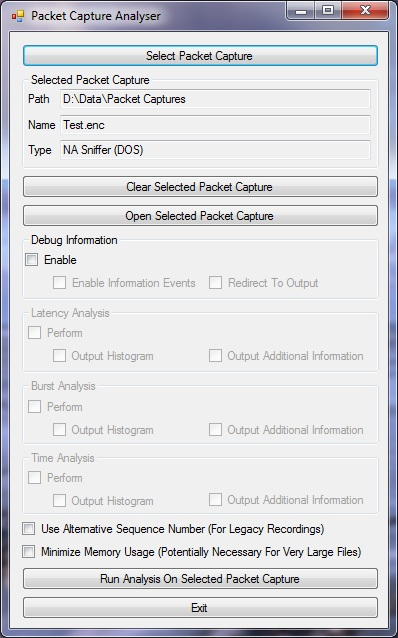
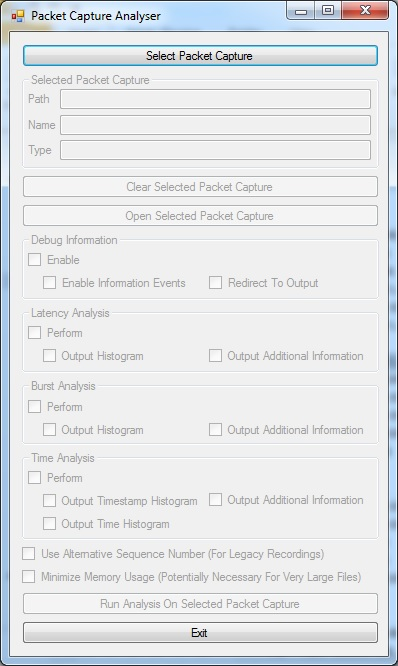
Enhancements to time analysis Minor improvements to latency analysis and burst analysis Revised screenshot

diff --git a/PacketCaptureAnalyser/MainWindowForm.Designer.cs b/PacketCaptureAnalyser/MainWindowForm.Designer.cs
@@ -153,9 +153,14 @@ namespace PacketCaptureAnalyzer
         private System.Windows.Forms.CheckBox thePerformTimeAnalysisCheckBox;
 
         /// <summary>
-        /// The check box that indicates whether to output histograms from the time analysis for the selected packet capture
+        /// The check box that indicates whether to output timestamp histograms from the time analysis for the selected packet capture
         /// </summary>
-        private System.Windows.Forms.CheckBox theOutputTimeAnalysisHistogramCheckBox;
+        private System.Windows.Forms.CheckBox theOutputTimeAnalysisTimestampHistogramCheckBox;
+
+        /// <summary>
+        /// The check box that indicates whether to output time histograms from the time analysis for the selected packet capture
+        /// </summary>
+        private System.Windows.Forms.CheckBox theOutputTimeAnalysisTimeHistogramCheckBox;
 
         /// <summary>
         /// The check box that indicates whether to output additional information from the time analysis for the selected packet capture
@@ -257,7 +262,8 @@ namespace PacketCaptureAnalyzer
             this.theOutputLatencyAnalysisHistogramCheckBox = new System.Windows.Forms.CheckBox();
             this.theDebugInformationGroupBox = new System.Windows.Forms.GroupBox();
             this.theTimeAnalysisGroupBox = new System.Windows.Forms.GroupBox();
-            this.theOutputTimeAnalysisHistogramCheckBox = new System.Windows.Forms.CheckBox();
+            this.theOutputTimeAnalysisTimeHistogramCheckBox = new System.Windows.Forms.CheckBox();
+            this.theOutputTimeAnalysisTimestampHistogramCheckBox = new System.Windows.Forms.CheckBox();
             this.theSelectedPacketCaptureGroupBox = new System.Windows.Forms.GroupBox();
             this.theBurstAnalysisGroupBox = new System.Windows.Forms.GroupBox();
             this.theOutputBurstAnalysisHistogramCheckBox = new System.Windows.Forms.CheckBox();
@@ -273,7 +279,7 @@ namespace PacketCaptureAnalyzer
             // theRunAnalysisOnSelectedPackageCaptureButton
             // 
             this.theRunAnalysisOnSelectedPackageCaptureButton.Enabled = false;
-            this.theRunAnalysisOnSelectedPackageCaptureButton.Location = new System.Drawing.Point(12, 535);
+            this.theRunAnalysisOnSelectedPackageCaptureButton.Location = new System.Drawing.Point(12, 560);
             this.theRunAnalysisOnSelectedPackageCaptureButton.Name = "theRunAnalysisOnSelectedPackageCaptureButton";
             this.theRunAnalysisOnSelectedPackageCaptureButton.Size = new System.Drawing.Size(357, 23);
             this.theRunAnalysisOnSelectedPackageCaptureButton.TabIndex = 10;
@@ -283,7 +289,7 @@ namespace PacketCaptureAnalyzer
             // 
             // theExitButton
             // 
-            this.theExitButton.Location = new System.Drawing.Point(12, 564);
+            this.theExitButton.Location = new System.Drawing.Point(12, 589);
             this.theExitButton.Name = "theExitButton";
             this.theExitButton.Size = new System.Drawing.Size(357, 23);
             this.theExitButton.TabIndex = 11;
@@ -435,7 +441,7 @@ namespace PacketCaptureAnalyzer
             // 
             this.theMinimizeMemoryUsageCheckBox.AutoSize = true;
             this.theMinimizeMemoryUsageCheckBox.Enabled = false;
-            this.theMinimizeMemoryUsageCheckBox.Location = new System.Drawing.Point(12, 512);
+            this.theMinimizeMemoryUsageCheckBox.Location = new System.Drawing.Point(12, 537);
             this.theMinimizeMemoryUsageCheckBox.Name = "theMinimizeMemoryUsageCheckBox";
             this.theMinimizeMemoryUsageCheckBox.Size = new System.Drawing.Size(346, 17);
             this.theMinimizeMemoryUsageCheckBox.TabIndex = 9;
@@ -457,7 +463,7 @@ namespace PacketCaptureAnalyzer
             // 
             this.theEnableInformationEventsInDebugInformationCheckBox.AutoSize = true;
             this.theEnableInformationEventsInDebugInformationCheckBox.Enabled = false;
-            this.theEnableInformationEventsInDebugInformationCheckBox.Location = new System.Drawing.Point(31, 42);
+            this.theEnableInformationEventsInDebugInformationCheckBox.Location = new System.Drawing.Point(21, 42);
             this.theEnableInformationEventsInDebugInformationCheckBox.Name = "theEnableInformationEventsInDebugInformationCheckBox";
             this.theEnableInformationEventsInDebugInformationCheckBox.Size = new System.Drawing.Size(150, 17);
             this.theEnableInformationEventsInDebugInformationCheckBox.TabIndex = 1;
@@ -480,7 +486,7 @@ namespace PacketCaptureAnalyzer
             // 
             this.theUseAlternativeSequenceNumberCheckBox.AutoSize = true;
             this.theUseAlternativeSequenceNumberCheckBox.Enabled = false;
-            this.theUseAlternativeSequenceNumberCheckBox.Location = new System.Drawing.Point(12, 489);
+            this.theUseAlternativeSequenceNumberCheckBox.Location = new System.Drawing.Point(12, 514);
             this.theUseAlternativeSequenceNumberCheckBox.Name = "theUseAlternativeSequenceNumberCheckBox";
             this.theUseAlternativeSequenceNumberCheckBox.Size = new System.Drawing.Size(309, 17);
             this.theUseAlternativeSequenceNumberCheckBox.TabIndex = 8;
@@ -504,7 +510,7 @@ namespace PacketCaptureAnalyzer
             // 
             this.theOutputLatencyAnalysisHistogramCheckBox.AutoSize = true;
             this.theOutputLatencyAnalysisHistogramCheckBox.Enabled = false;
-            this.theOutputLatencyAnalysisHistogramCheckBox.Location = new System.Drawing.Point(31, 42);
+            this.theOutputLatencyAnalysisHistogramCheckBox.Location = new System.Drawing.Point(21, 42);
             this.theOutputLatencyAnalysisHistogramCheckBox.Name = "theOutputLatencyAnalysisHistogramCheckBox";
             this.theOutputLatencyAnalysisHistogramCheckBox.Size = new System.Drawing.Size(108, 17);
             this.theOutputLatencyAnalysisHistogramCheckBox.TabIndex = 1;
@@ -526,27 +532,39 @@ namespace PacketCaptureAnalyzer
             // 
             // theTimeAnalysisGroupBox
             // 
-            this.theTimeAnalysisGroupBox.Controls.Add(this.theOutputTimeAnalysisHistogramCheckBox);
+            this.theTimeAnalysisGroupBox.Controls.Add(this.theOutputTimeAnalysisTimeHistogramCheckBox);
+            this.theTimeAnalysisGroupBox.Controls.Add(this.theOutputTimeAnalysisTimestampHistogramCheckBox);
             this.theTimeAnalysisGroupBox.Controls.Add(this.thePerformTimeAnalysisCheckBox);
             this.theTimeAnalysisGroupBox.Controls.Add(this.theOutputAdditionalTimeAnalysisInformationCheckBox);
             this.theTimeAnalysisGroupBox.Enabled = false;
             this.theTimeAnalysisGroupBox.Location = new System.Drawing.Point(12, 419);
             this.theTimeAnalysisGroupBox.Name = "theTimeAnalysisGroupBox";
-            this.theTimeAnalysisGroupBox.Size = new System.Drawing.Size(357, 64);
+            this.theTimeAnalysisGroupBox.Size = new System.Drawing.Size(357, 89);
             this.theTimeAnalysisGroupBox.TabIndex = 7;
             this.theTimeAnalysisGroupBox.TabStop = false;
             this.theTimeAnalysisGroupBox.Text = global::PacketCaptureAnalyzer.Properties.Resources.TimeAnalysis;
             // 
-            // theOutputTimeAnalysisHistogramCheckBox
+            // theOutputTimeAnalysisTimeHistogramCheckBox
             // 
-            this.theOutputTimeAnalysisHistogramCheckBox.AutoSize = true;
-            this.theOutputTimeAnalysisHistogramCheckBox.Enabled = false;
-            this.theOutputTimeAnalysisHistogramCheckBox.Location = new System.Drawing.Point(31, 42);
-            this.theOutputTimeAnalysisHistogramCheckBox.Name = "theOutputTimeAnalysisHistogramCheckBox";
-            this.theOutputTimeAnalysisHistogramCheckBox.Size = new System.Drawing.Size(108, 17);
-            this.theOutputTimeAnalysisHistogramCheckBox.TabIndex = 1;
-            this.theOutputTimeAnalysisHistogramCheckBox.Text = global::PacketCaptureAnalyzer.Properties.Resources.OutputHistogram;
-            this.theOutputTimeAnalysisHistogramCheckBox.UseVisualStyleBackColor = true;
+            this.theOutputTimeAnalysisTimeHistogramCheckBox.AutoSize = true;
+            this.theOutputTimeAnalysisTimeHistogramCheckBox.Enabled = false;
+            this.theOutputTimeAnalysisTimeHistogramCheckBox.Location = new System.Drawing.Point(21, 65);
+            this.theOutputTimeAnalysisTimeHistogramCheckBox.Name = "theOutputTimeAnalysisTimeHistogramCheckBox";
+            this.theOutputTimeAnalysisTimeHistogramCheckBox.Size = new System.Drawing.Size(134, 17);
+            this.theOutputTimeAnalysisTimeHistogramCheckBox.TabIndex = 3;
+            this.theOutputTimeAnalysisTimeHistogramCheckBox.Text = global::PacketCaptureAnalyzer.Properties.Resources.OutputTimeHistogram;
+            this.theOutputTimeAnalysisTimeHistogramCheckBox.UseVisualStyleBackColor = true;
+            // 
+            // theOutputTimeAnalysisTimestampHistogramCheckBox
+            // 
+            this.theOutputTimeAnalysisTimestampHistogramCheckBox.AutoSize = true;
+            this.theOutputTimeAnalysisTimestampHistogramCheckBox.Enabled = false;
+            this.theOutputTimeAnalysisTimestampHistogramCheckBox.Location = new System.Drawing.Point(21, 42);
+            this.theOutputTimeAnalysisTimestampHistogramCheckBox.Name = "theOutputTimeAnalysisTimestampHistogramCheckBox";
+            this.theOutputTimeAnalysisTimestampHistogramCheckBox.Size = new System.Drawing.Size(162, 17);
+            this.theOutputTimeAnalysisTimestampHistogramCheckBox.TabIndex = 1;
+            this.theOutputTimeAnalysisTimestampHistogramCheckBox.Text = global::PacketCaptureAnalyzer.Properties.Resources.OutputTimestampHistogram;
+            this.theOutputTimeAnalysisTimestampHistogramCheckBox.UseVisualStyleBackColor = true;
             // 
             // theSelectedPacketCaptureGroupBox
             // 
@@ -581,7 +599,7 @@ namespace PacketCaptureAnalyzer
             // 
             this.theOutputBurstAnalysisHistogramCheckBox.AutoSize = true;
             this.theOutputBurstAnalysisHistogramCheckBox.Enabled = false;
-            this.theOutputBurstAnalysisHistogramCheckBox.Location = new System.Drawing.Point(31, 43);
+            this.theOutputBurstAnalysisHistogramCheckBox.Location = new System.Drawing.Point(21, 43);
             this.theOutputBurstAnalysisHistogramCheckBox.Name = "theOutputBurstAnalysisHistogramCheckBox";
             this.theOutputBurstAnalysisHistogramCheckBox.Size = new System.Drawing.Size(108, 17);
             this.theOutputBurstAnalysisHistogramCheckBox.TabIndex = 1;
@@ -616,7 +634,7 @@ namespace PacketCaptureAnalyzer
             this.AllowDrop = true;
             this.AutoScaleDimensions = new System.Drawing.SizeF(6F, 13F);
             this.AutoScaleMode = System.Windows.Forms.AutoScaleMode.Font;
-            this.ClientSize = new System.Drawing.Size(378, 596);
+            this.ClientSize = new System.Drawing.Size(378, 624);
             this.Controls.Add(this.theBurstAnalysisGroupBox);
             this.Controls.Add(this.theSelectedPacketCaptureGroupBox);
             this.Controls.Add(this.theUseAlternativeSequenceNumberCheckBox);

diff --git a/PacketCaptureAnalyser/Analysis/Time Analysis/Processing.cs b/PacketCaptureAnalyser/Analysis/Time Analysis/Processing.cs
@@ -23,9 +23,14 @@ namespace PacketCaptureAnalyzer.Analysis.TimeAnalysis
         private Analysis.DebugInformation theDebugInformation;
 
         /// <summary>
-        /// Boolean flag that indicates whether to output the histograms
+        /// Boolean flag that indicates whether to output the histogram for timestamps
         /// </summary>
-        private bool outputHistograms;
+        private bool outputTimestampHistograms;
+
+        /// <summary>
+        /// Boolean flag that indicates whether to output the histogram for times
+        /// </summary>
+        private bool outputTimeHistograms;
 
         /// <summary>
         /// Boolean flag that indicates whether to output additional information
@@ -51,14 +56,17 @@ namespace PacketCaptureAnalyzer.Analysis.TimeAnalysis
         /// Initializes a new instance of the Processing class
         /// </summary>
         /// <param name="theDebugInformation">The object that provides for the logging of debug information</param>
-        /// <param name="outputHistograms">Boolean flag that indicates whether to output the histograms</param>
+        /// <param name="outputTimestampHistograms">Boolean flag that indicates whether to output the histogram for timestamps</param>
+        /// <param name="outputTimeHistograms">Boolean flag that indicates whether to output the histogram for times</param>
         /// <param name="outputAdditionalInformation">Boolean flag that indicates whether to output additional information</param>
         /// <param name="theSelectedPacketCaptureFile">The path of the selected packet capture</param>
-        public Processing(Analysis.DebugInformation theDebugInformation, bool outputHistograms, bool outputAdditionalInformation, string theSelectedPacketCaptureFile)
+        public Processing(Analysis.DebugInformation theDebugInformation, bool outputTimestampHistograms, bool outputTimeHistograms, bool outputAdditionalInformation, string theSelectedPacketCaptureFile)
         {
             this.theDebugInformation = theDebugInformation;
 
-            this.outputHistograms = outputHistograms;
+            this.outputTimestampHistograms = outputTimestampHistograms;
+
+            this.outputTimeHistograms = outputTimeHistograms;
 
             this.outputAdditionalInformation = outputAdditionalInformation;
 
@@ -679,10 +687,15 @@ namespace PacketCaptureAnalyzer.Analysis.TimeAnalysis
                     "The number of those time-supplying messages that had an out of range time difference was " +
                     theOutOfRangeTimes.Count().ToString(System.Globalization.CultureInfo.CurrentCulture));
 
-                // Output the data for any time-supplying message with an out of range time difference
-                foreach (string theString in theOutOfRangeTimes)
+                if (this.outputAdditionalInformation)
                 {
-                    this.theDebugInformation.WriteTextLine(theString);
+                    this.theDebugInformation.WriteBlankLine();
+
+                    // Output the data for any time-supplying message with an out of range time difference
+                    foreach (string theString in theOutOfRangeTimes)
+                    {
+                        this.theDebugInformation.WriteTextLine(theString);
+                    }
                 }
             }
 
@@ -752,7 +765,7 @@ namespace PacketCaptureAnalyzer.Analysis.TimeAnalysis
                         " Hz");
                 }
 
-                if (this.outputHistograms)
+                if (this.outputTimestampHistograms)
                 {
                     //// Output the histogram
 
@@ -814,7 +827,7 @@ namespace PacketCaptureAnalyzer.Analysis.TimeAnalysis
                     string.Format(System.Globalization.CultureInfo.CurrentCulture, "{0,19}", theAverageTimeDifference.ToString(System.Globalization.CultureInfo.CurrentCulture)) +
                     " ms");
 
-                if (this.outputHistograms)
+                if (this.outputTimeHistograms)
                 {
                     //// Output the histogram
 

diff --git a/PacketCaptureAnalyser/MainWindowForm.cs b/PacketCaptureAnalyser/MainWindowForm.cs
@@ -232,16 +232,22 @@ namespace PacketCaptureAnalyzer
             {
                 if (this.thePerformTimeAnalysisCheckBox.Checked)
                 {
-                    this.theOutputTimeAnalysisHistogramCheckBox.Checked = false;
-                    this.theOutputTimeAnalysisHistogramCheckBox.Enabled = true;
+                    this.theOutputTimeAnalysisTimestampHistogramCheckBox.Checked = false;
+                    this.theOutputTimeAnalysisTimestampHistogramCheckBox.Enabled = true;
+
+                    this.theOutputTimeAnalysisTimeHistogramCheckBox.Checked = false;
+                    this.theOutputTimeAnalysisTimeHistogramCheckBox.Enabled = true;
 
                     this.theOutputAdditionalTimeAnalysisInformationCheckBox.Checked = false;
                     this.theOutputAdditionalTimeAnalysisInformationCheckBox.Enabled = true;
                 }
                 else
                 {
-                    this.theOutputTimeAnalysisHistogramCheckBox.Checked = false;
-                    this.theOutputTimeAnalysisHistogramCheckBox.Enabled = false;
+                    this.theOutputTimeAnalysisTimestampHistogramCheckBox.Checked = false;
+                    this.theOutputTimeAnalysisTimestampHistogramCheckBox.Enabled = false;
+
+                    this.theOutputTimeAnalysisTimeHistogramCheckBox.Checked = false;
+                    this.theOutputTimeAnalysisTimeHistogramCheckBox.Enabled = false;
 
                     this.theOutputAdditionalTimeAnalysisInformationCheckBox.Checked = false;
                     this.theOutputAdditionalTimeAnalysisInformationCheckBox.Enabled = false;
@@ -929,7 +935,8 @@ namespace PacketCaptureAnalyzer
                 this.theTimeAnalysisProcessing =
                     new Analysis.TimeAnalysis.Processing(
                         theDebugInformation,
-                        this.theOutputTimeAnalysisHistogramCheckBox.Checked,
+                        this.theOutputTimeAnalysisTimestampHistogramCheckBox.Checked,
+                        this.theOutputTimeAnalysisTimeHistogramCheckBox.Checked,
                         this.theOutputAdditionalTimeAnalysisInformationCheckBox.Checked,
                         this.theSelectedPacketCapturePath);
 
@@ -1298,8 +1305,11 @@ namespace PacketCaptureAnalyzer
             this.thePerformTimeAnalysisCheckBox.Checked = false;
             this.thePerformTimeAnalysisCheckBox.Enabled = true;
 
-            this.theOutputTimeAnalysisHistogramCheckBox.Checked = false;
-            this.theOutputTimeAnalysisHistogramCheckBox.Enabled = false;
+            this.theOutputTimeAnalysisTimestampHistogramCheckBox.Checked = false;
+            this.theOutputTimeAnalysisTimestampHistogramCheckBox.Enabled = false;
+
+            this.theOutputTimeAnalysisTimeHistogramCheckBox.Checked = false;
+            this.theOutputTimeAnalysisTimeHistogramCheckBox.Enabled = false;
 
             this.theOutputAdditionalTimeAnalysisInformationCheckBox.Checked = false;
             this.theOutputAdditionalTimeAnalysisInformationCheckBox.Enabled = false;
@@ -1368,8 +1378,11 @@ namespace PacketCaptureAnalyzer
             this.thePerformTimeAnalysisCheckBox.Checked = false;
             this.thePerformTimeAnalysisCheckBox.Enabled = false;
 
-            this.theOutputTimeAnalysisHistogramCheckBox.Checked = false;
-            this.theOutputTimeAnalysisHistogramCheckBox.Enabled = false;
+            this.theOutputTimeAnalysisTimestampHistogramCheckBox.Checked = false;
+            this.theOutputTimeAnalysisTimestampHistogramCheckBox.Enabled = false;
+
+            this.theOutputTimeAnalysisTimeHistogramCheckBox.Checked = false;
+            this.theOutputTimeAnalysisTimeHistogramCheckBox.Enabled = false;
 
             this.theOutputAdditionalTimeAnalysisInformationCheckBox.Checked = false;
             this.theOutputAdditionalTimeAnalysisInformationCheckBox.Enabled = false;

diff --git a/PacketCaptureAnalyser/Analysis/Burst Analysis/Processing.cs b/PacketCaptureAnalyser/Analysis/Burst Analysis/Processing.cs
@@ -596,12 +596,15 @@ namespace PacketCaptureAnalyzer.Analysis.BurstAnalysis
                             theOutOfRangeTimestamps.Count().ToString(System.Globalization.CultureInfo.CurrentCulture));
                     }
 
-                    this.theDebugInformation.WriteBlankLine();
-
-                    // Output the data for any message with an out of range timestamp difference
-                    foreach (string theString in theOutOfRangeTimestamps)
+                    if (this.outputAdditionalInformation)
                     {
-                        this.theDebugInformation.WriteTextLine(theString);
+                        this.theDebugInformation.WriteBlankLine();
+
+                        // Output the data for any message with an out of range timestamp difference
+                        foreach (string theString in theOutOfRangeTimestamps)
+                        {
+                            this.theDebugInformation.WriteTextLine(theString);
+                        }
                     }
                 }
 
@@ -627,12 +630,15 @@ namespace PacketCaptureAnalyzer.Analysis.BurstAnalysis
                             theIgnoredTimestamps.Count().ToString(System.Globalization.CultureInfo.CurrentCulture));
                     }
 
-                    this.theDebugInformation.WriteBlankLine();
-
-                    // Output the data for any time-supplying messages that were ignored and discarded
-                    foreach (string theString in theIgnoredTimestamps)
+                    if (this.outputAdditionalInformation)
                     {
-                        this.theDebugInformation.WriteTextLine(theString);
+                        this.theDebugInformation.WriteBlankLine();
+
+                        // Output the data for any time-supplying messages that were ignored and discarded
+                        foreach (string theString in theIgnoredTimestamps)
+                        {
+                            this.theDebugInformation.WriteTextLine(theString);
+                        }
                     }
                 }
             }

diff --git a/PacketCaptureAnalyser/Properties/Resources.Designer.cs b/PacketCaptureAnalyser/Properties/Resources.Designer.cs
@@ -205,6 +205,42 @@ namespace PacketCaptureAnalyzer.Properties {
         }
         
         /// <summary>
+        ///   Looks up a localized string similar to Output Time Additional Information.
+        /// </summary>
+        internal static string OutputTimeAdditionalInformation {
+            get {
+                return ResourceManager.GetString("OutputTimeAdditionalInformation", resourceCulture);
+            }
+        }
+        
+        /// <summary>
+        ///   Looks up a localized string similar to Output Time Histogram.
+        /// </summary>
+        internal static string OutputTimeHistogram {
+            get {
+                return ResourceManager.GetString("OutputTimeHistogram", resourceCulture);
+            }
+        }
+        
+        /// <summary>
+        ///   Looks up a localized string similar to Output Timestamp Additional Information.
+        /// </summary>
+        internal static string OutputTimestampAdditionalInformation {
+            get {
+                return ResourceManager.GetString("OutputTimestampAdditionalInformation", resourceCulture);
+            }
+        }
+        
+        /// <summary>
+        ///   Looks up a localized string similar to Output Timestamp Histogram.
+        /// </summary>
+        internal static string OutputTimestampHistogram {
+            get {
+                return ResourceManager.GetString("OutputTimestampHistogram", resourceCulture);
+            }
+        }
+        
+        /// <summary>
         ///   Looks up a localized string similar to Packet Capture Analyser.
         /// </summary>
         internal static string PacketCaptureAnalyser {

diff --git a/PacketCaptureAnalyser/Analysis/Latency Analysis/Processing.cs b/PacketCaptureAnalyser/Analysis/Latency Analysis/Processing.cs
@@ -571,12 +571,15 @@ namespace PacketCaptureAnalyzer.Analysis.LatencyAnalysis
                         "The number of those message pairs that had an out of range latency was " +
                         theOutOfRangeLatencies.Count().ToString(System.Globalization.CultureInfo.CurrentCulture));
 
-                    this.theDebugInformation.WriteBlankLine();
-
-                    // Output the data for any message pair with an out of range latency
-                    foreach (string theString in theOutOfRangeLatencies)
+                    if (this.outputAdditionalInformation)
                     {
-                        this.theDebugInformation.WriteTextLine(theString);
+                        this.theDebugInformation.WriteBlankLine();
+
+                        // Output the data for any message pair with an out of range latency
+                        foreach (string theString in theOutOfRangeLatencies)
+                        {
+                            this.theDebugInformation.WriteTextLine(theString);
+                        }
                     }
                 }
             }
